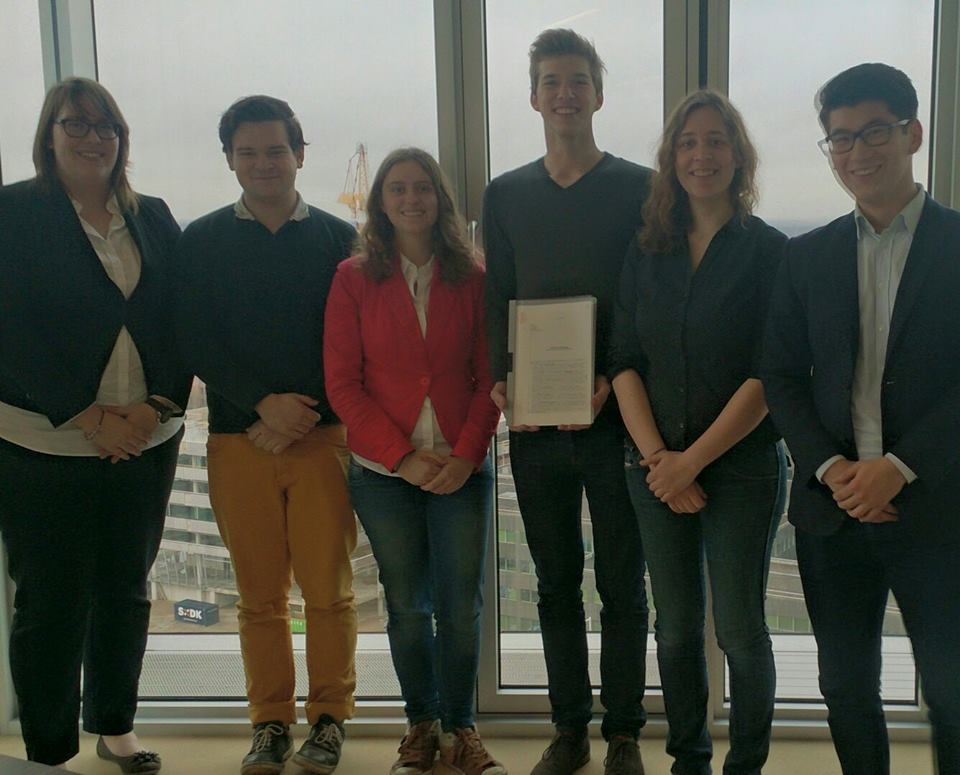
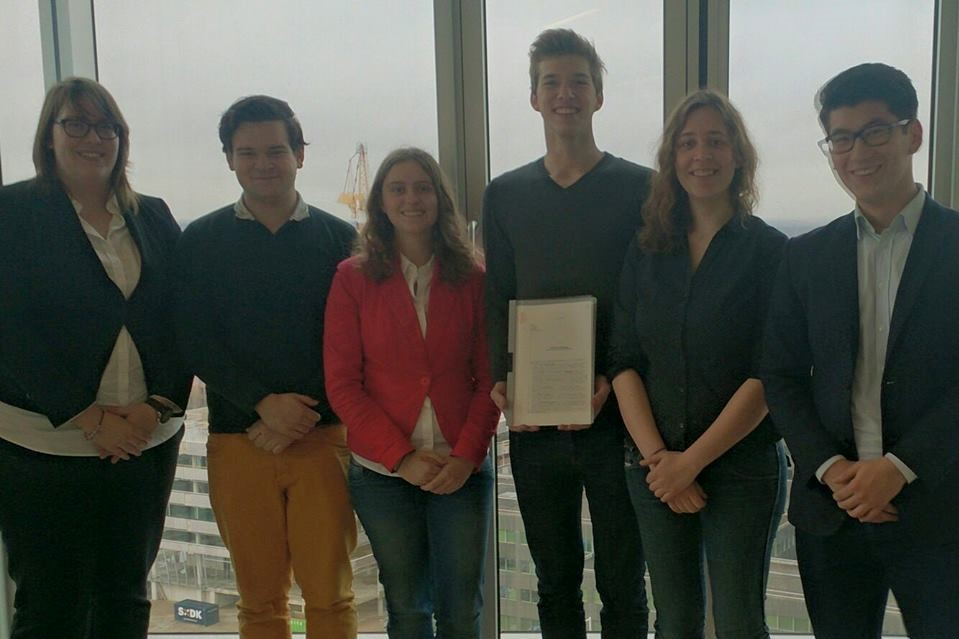
Redesigned board page
All board pictures are of ration 3:2
Aligned texts to the right of pictures vertically centered.
Seperated previous board and current board

Still needs to be done:
Board 0 still needs to be added
fltr need to be finished (dont really know all names)
Design can be better.

diff --git a/src/www/pages/about/boards.html b/src/www/pages/about/boards.html
@@ -1,56 +1,205 @@
+<h1>Current Board</h1>
+<div class="board-container">
+    <div class="board-column">
+        <img src="../../../img/BoardPictures/Board5.png" alt="Board 5" style="width: 100%">
+    </div>
+    <div class="board-column">
+        <div class="board-content">
+        <span>
+            <h2>Board 5</h2>
+            <p>fltr: Benjamin Rodatz, Marijn Stijvers, Tom Suelmann, Robin van Hoorn</p>
+            <ul>
+                <li>Chairman – Tom Suelmann</li>
+                <li>Secretary – Marijn Stijvers</li>
+                <li>Treasurer – Robin van Hoorn</li>
+                <li>Commissioner Internal Affairs – Benjamin Rodatz</li>
+                <li>Commissioner External Affairs - Tom Suelmann</li>
+            </ul>
+        </span>
+        </div>
+    </div>
+</div>
 <h1>Previous boards</h1>
-<h3>Second board (January 2017 - September 2017</h3>
-<img src="/img/board2016b.jpg">
-<p>Left to right: Steven, Andreas, Ahmed, Luuk, Joyce, Alissa, Christiaan</p>
-<ul>
-  <li>Chairman – Luuk Godtschalk</li>
-  <li>Secretary – Andreas Panteli</li>
-  <li>Treasurer – Alissa Buskermolen</li>
-  <li>Commissioner Internal Affairs – Joyce Kimenai</li>
-  <li>Commissioner External Affairs – Steven Kuijpers</li>
-  <li>Vice Chairman – Christiaan Dirkx</li>
-  <li>Counselor – Ahmed Ahres</li>
-</ul>
+<div class="board-container">
+    <div class="board-column">
+        <img src="../../../img/BoardPictures/Board4b.jpeg" alt="Board 4b" style="width: 100%">
+    </div>
+    <div class="board-column">
+        <div class="board-content">
+        <span>
+            <h2>Board 4b</h2>
+            <p>fltr: Amar van Uden, Victor Brouwers, Koen Degeling, Jeroen Schols</p>
+            <ul>
+                <li>Chairman – Victor Brouwers</li>
+                <li>Secretary – Amar van Uden</li>
+                <li>Treasurer – Koen Degeling</li>
+                <li>Commissioner Internal Affairs – Jeroen Schols</li>
+                <li>Commissioner External Affairs - Victor Brouwers</li>
+            </ul>
+        </span>
+        </div>
+    </div>
+</div>
+<div style="height: 30px"></div>
+<div class="board-container">
+    <div class="board-column">
+        <img src="../../../img/BoardPictures/Board4a.png" alt="Board 4a" style="width: 100%">
+    </div>
+    <div class="board-column">
+        <div class="board-content">
+        <span>
+            <h2>Board 4a</h2>
+            <p>fltr: Xander de Wit, Jeroen Schols, Amar van Uden, Christos Spiliades, Koen Degeling, Victor Brouwers</p>
+            <ul>
+                <li>Chairman – Christos Spiliades</li>
+                <li>Secretary – Amar van Uden</li>
+                <li>Treasurer – Koen Degeling</li>
+                <li>Commissioner Internal Affairs – Jeroen Schols</li>
+                <li>Commissioner External Affairs - Victor Brouwers</li>
+                <li>Corporate Relations - Xander de Wit</li>
+            </ul>
+        </span>
+        </div>
+    </div>
+</div>
+<div style="height: 30px"></div>
+<div class="board-container">
+    <div class="board-column">
+        <img src="../../../img/BoardPictures/Board3b.jpg" alt="Board 3b" style="width: 100%">
+    </div>
+    <div class="board-column">
+        <div class="board-content">
+        <span>
+            <h2>Board 3b</h2>
+            <p>fltr: Vansh Kharbanda, Gijs Herings, Dominik Grabardczyk, Wouter Tonnon, Max van Meer, Jaer Mertens</p>
+            <ul>
+                <li>Chairman – Dominik Grabarczyk</li>
+                <li>Secretary – Vansh Kharbanda</li>
+                <li>Treasurer – Wouter Tonnon</li>
+                <li>Commissioner Internal Affairs – Gijs Herings</li>
+                <li>Commissioner External Affairs - Max van Meer</li>
+                <li>Relationship Manager - Jaer Mertens</li>
+            </ul>
+        </span>
+        </div>
+    </div>
+</div>
+<div style="height: 30px"></div>
+<div class="board-container">
+    <div class="board-column">
+        <img src="../../../img/BoardPictures/Board3a.jpg" alt="Board 3a" style="width: 100%">
+    </div>
+    <div class="board-column">
+        <div class="board-content">
+        <span>
+            <h2>Board 3a</h2>
+            <p>fltr: Max van Meer, Steven Kuijpers, Vansh Kharbanda, Andreas Panteli, Wouter Tonnon, Dominik Grabarczyk, Gijs Herings</p>
+            <ul>
+                <li>Chairman – Andreas Panteli</li>
+                <li>Secretary – Vansh Kharbanda</li>
+                <li>Treasurer – Wouter Tonnon</li>
+                <li>Commissioner Internal Affairs – Gijs Herings</li>
+                <li>Commissioner External Affairs - Steven Kuijpers</li>
+                <li>Vice Chairman - Dominik Grabarczyk</li>
+                <li>Counselor - Max van Meer</li>
+            </ul>
+        </span>
+        </div>
+    </div>
+</div>
+<div style="height: 30px"></div>
+<div class="board-container">
+    <div class="board-column">
+        <img src="../../../img/BoardPictures/Board2b.jpg" alt="Board 2b" style="width: 100%">
+    </div>
+    <div class="board-column">
+        <div class="board-content">
+            <span>
+                <h2>Board 2b</h2>
+                <p>fltr: Steven Kuijpers, Andreas Panteli, Ahmed Ahres, Luuk Godtschalk, Joyce Kimenai, Alissa Buskermolen, Christiaan Dirkx</p>
+                <ul>
+                    <li>Chairman – Luuk Godtschalk</li>
+                    <li>Secretary – Andreas Panteli</li>
+                    <li>Treasurer – Alissa Buskermolen</li>
+                    <li>Commissioner Internal Affairs – Joyce Kimenai</li>
+                    <li>Commissioner External Affairs – Steven Kuijpers</li>
+                    <li>Vice Chairman – Christiaan Dirkx</li>
+                    <li>Counselor – Ahmed Ahres</li>
+                </ul>
+            </span>
+        </div>
+    </div>
+</div>
+<div style="height: 30px"></div>
+<div class="board-container">
+    <div class="board-column">
+        <img src="../../../img/BoardPictures/Board2a.jpg" alt="Board 2a" style="width: 100%">
+    </div>
+    <div class="board-column">
+        <div class="board-content">
+        <span>
+            <h2>Board 2a</h2>
+            <p>fltr: Christiaan Dirkx, Joyce Kimenai, Yoram Meijaard, Alissa Buskermolen, Luuk Godtschalk</p>
+            <ul>
+                <li>Chairman – Yoram Meijaard</li>
+                <li>Secretary – Joyce Kimenai</li>
+                <li>Treasurer – Alissa Buskermolen</li>
+                <li>Vice Chairman / Commissioner External Affairs – Christiaan Dirkx</li>
+                <li>Commissioner Internal Affairs – Luuk Godtschalk</li>
+            </ul>
+        </span>
+        </div>
+    </div>
+</div>
+<div style="height: 30px"></div>
+<div class="board-container">
+    <div class="board-column">
+        <img src="../../../img/BoardPictures/Board1b.jpg" alt="Board 1b" style="width: 100%">
+    </div>
+    <div class="board-column">
+        <div class="board-content">
+        <span>
+            <h2>Board 1b</h2>
+            <ul>
+                <li>Chairman – Yannick Augustijn</li>
+                <li>Secretary – Monique Huveneers</li>
+                <li>Treasurer – Satuki Kalverda</li>
+                <li>Vice Treasurer – Wouter Boerjan</li>
+                <li>Vice Chairman / Commissioner External Affairs – Yoram Meijaard</li>
+                <li>Commissioner Internal Affairs – Loes Hoefnagels</li>
+            </ul>
+        </span>
+        </div>
+    </div>
+</div>
+<div style="height: 30px"></div>
+<div class="board-container">
+    <div class="board-column">
+        <img src="../../../img/BoardPictures/Board1a.jpg" alt="Board 1a" style="width: 100%">
+    </div>
+    <div class="board-column">
+        <div class="board-content">
+        <span>
+            <h2>Board 1a</h2>
+            <ul>
+                <li>Chairman – Joran Savenije</li>
+                <li>Secretary – Monique Huveneers</li>
+                <li>Treasurer – Jarla Thiesbrummel</li>
+                <li>Vice Treasurer – Satuki Kalverda</li>
+                <li>Vice Chairman – Yannick Augustijn</li>
+                <li>Commissioner Internal Affairs – Loes Hoefnagels</li>
+            </ul>
+        </span>
+        </div>
+    </div>
+</div>
 
-<h3>Second board (September 2016 – January 2017)</h3>
-<img src="/img/board2016a.jpg">
-<p>Left to right: Christiaan, Joyce, Yoram, Alissa, Luuk</p>
-<ul>
-  <li>Chairman – Yoram Meijaard</li>
-  <li>Secretary – Joyce Kimenai</li>
-  <li>Treasurer – Alissa Buskermolen</li>
-  <li>Vice Chairman / Commissioner External Affairs – Christiaan Dirkx</li>
-  <li>Commissioner Internal Affairs – Luuk Godtschalk</li>
-</ul>
-
-<h3>First board (February 2016 – September 2016)</h3>
-<img src="/img/board2015b.jpg">
-<p>Left to right: Loes, Wouter, Yannick, Yoram, Monique, Satuki</p>
-<ul>
-  <li>Chairman – Yannick Augustijn</li>
-  <li>Secretary – Monique Huveneers</li>
-  <li>Treasurer – Satuki Kalverda</li>
-  <li>Vice Treasurer – Wouter Boerjan</li>
-  <li>Vice Chairman / Commissioner External Affairs – Yoram Meijaard</li>
-  <li>Commissioner Internal Affairs – Loes Hoefnagels</li>
-</ul>
-
-<h3>First board (Founders, January 2016 – February 2016)</h3>
-<ul>
-  <li>Chairman – Joran Savenije</li>
-  <li>Secretary – Monique Huveneers</li>
-  <li>Treasurer – Jarla Thiesbrummel</li>
-  <li>Vice Treasurer – Satuki Kalverda</li>
-  <li>Vice Chairman – Yannick Augustijn</li>
-  <li>Commissioner Internal Affairs – Loes Hoefnagels</li>
-</ul>
-
-<h3>Before official founding (March 2015 - August 2015)</h3>
-<ul>
-  <li>Chairman – Stijn van Leuken</li>
-  <li>Secretary – Lotte van Hezewijk</li>
-  <li>Treasurer – Jarla Thiesbrummel</li>
-  <li>Vice Chairman – Joran Savenije</li>
-  <li>Commissioner Internal Affairs – Floyd Heitzer</li>
-  <li>Commissioner External Affairs – Bram Nuijten</li>
-</ul>
+<!--<h3>Before official founding (March 2015 - August 2015)</h3>-->
+<!--<ul>-->
+<!--    <li>Chairman – Stijn van Leuken</li>-->
+<!--    <li>Secretary – Lotte van Hezewijk</li>-->
+<!--    <li>Treasurer – Jarla Thiesbrummel</li>-->
+<!--    <li>Vice Chairman – Joran Savenije</li>-->
+<!--    <li>Commissioner Internal Affairs – Floyd Heitzer</li>-->
+<!--    <li>Commissioner External Affairs – Bram Nuijten</li>-->
+<!--</ul>-->

diff --git a/src/css/style.css b/src/css/style.css
@@ -217,3 +217,31 @@ a:focus {
   background-color: var(--color-accent);
   border-color: var(--color-accent);
 }
+
+
+/* board.html css */
+.board-column {
+  display: flex;
+  width: 100%;
+}
+
+@media (min-width: 768px) {
+  .board-container {
+    display: flex;
+  }
+  .board-column {
+    width: 50%;
+  }
+}
+
+.board-content {
+  display: flex;
+  align-self: center;
+  padding-left: 20px;
+  font-size: 13px;
+}
+
+.board-content ul {
+  font-size: 20px;
+  list-style-type: none;
+}
